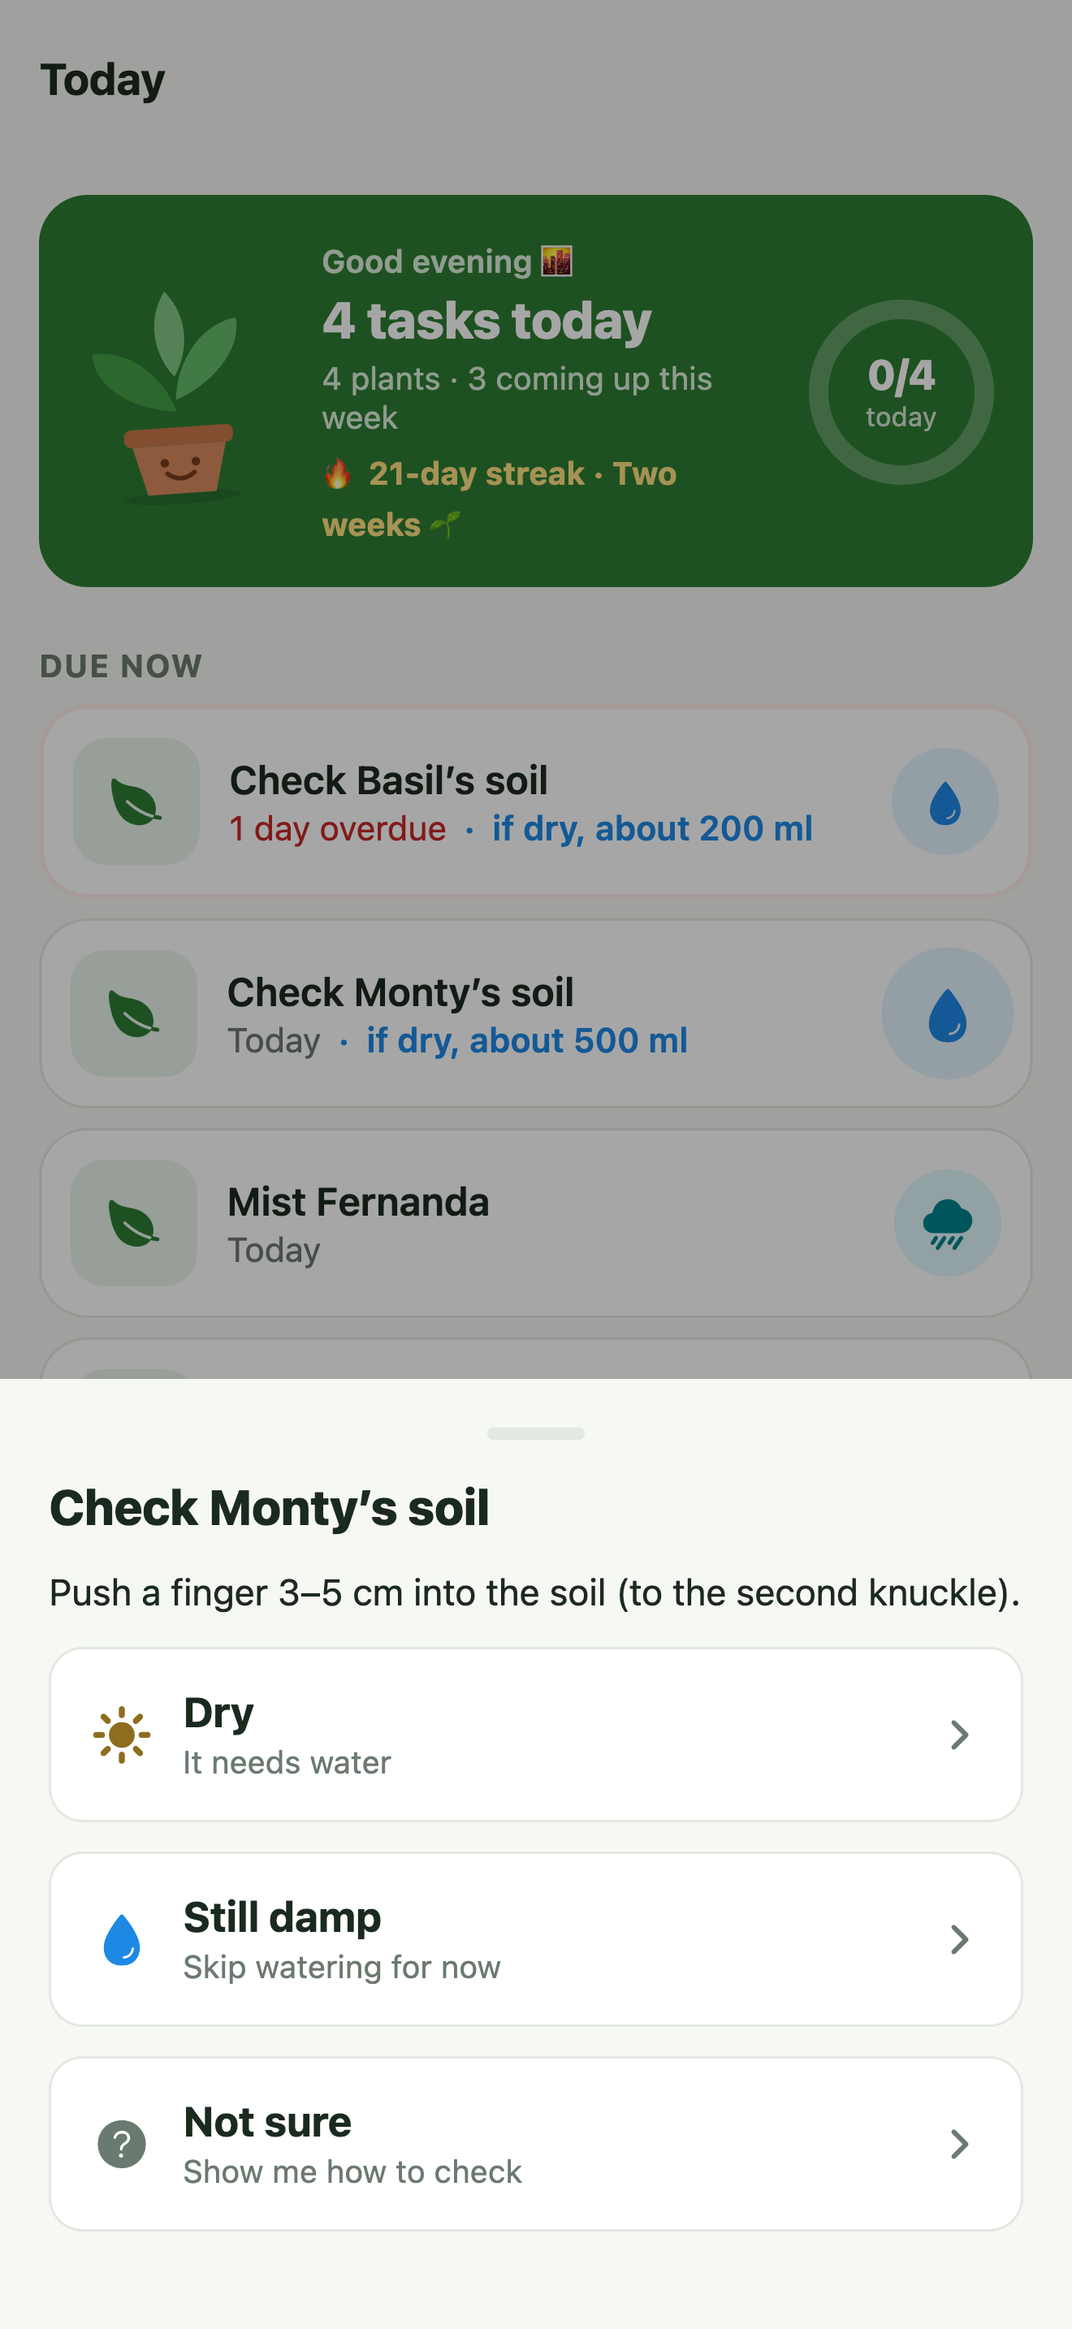
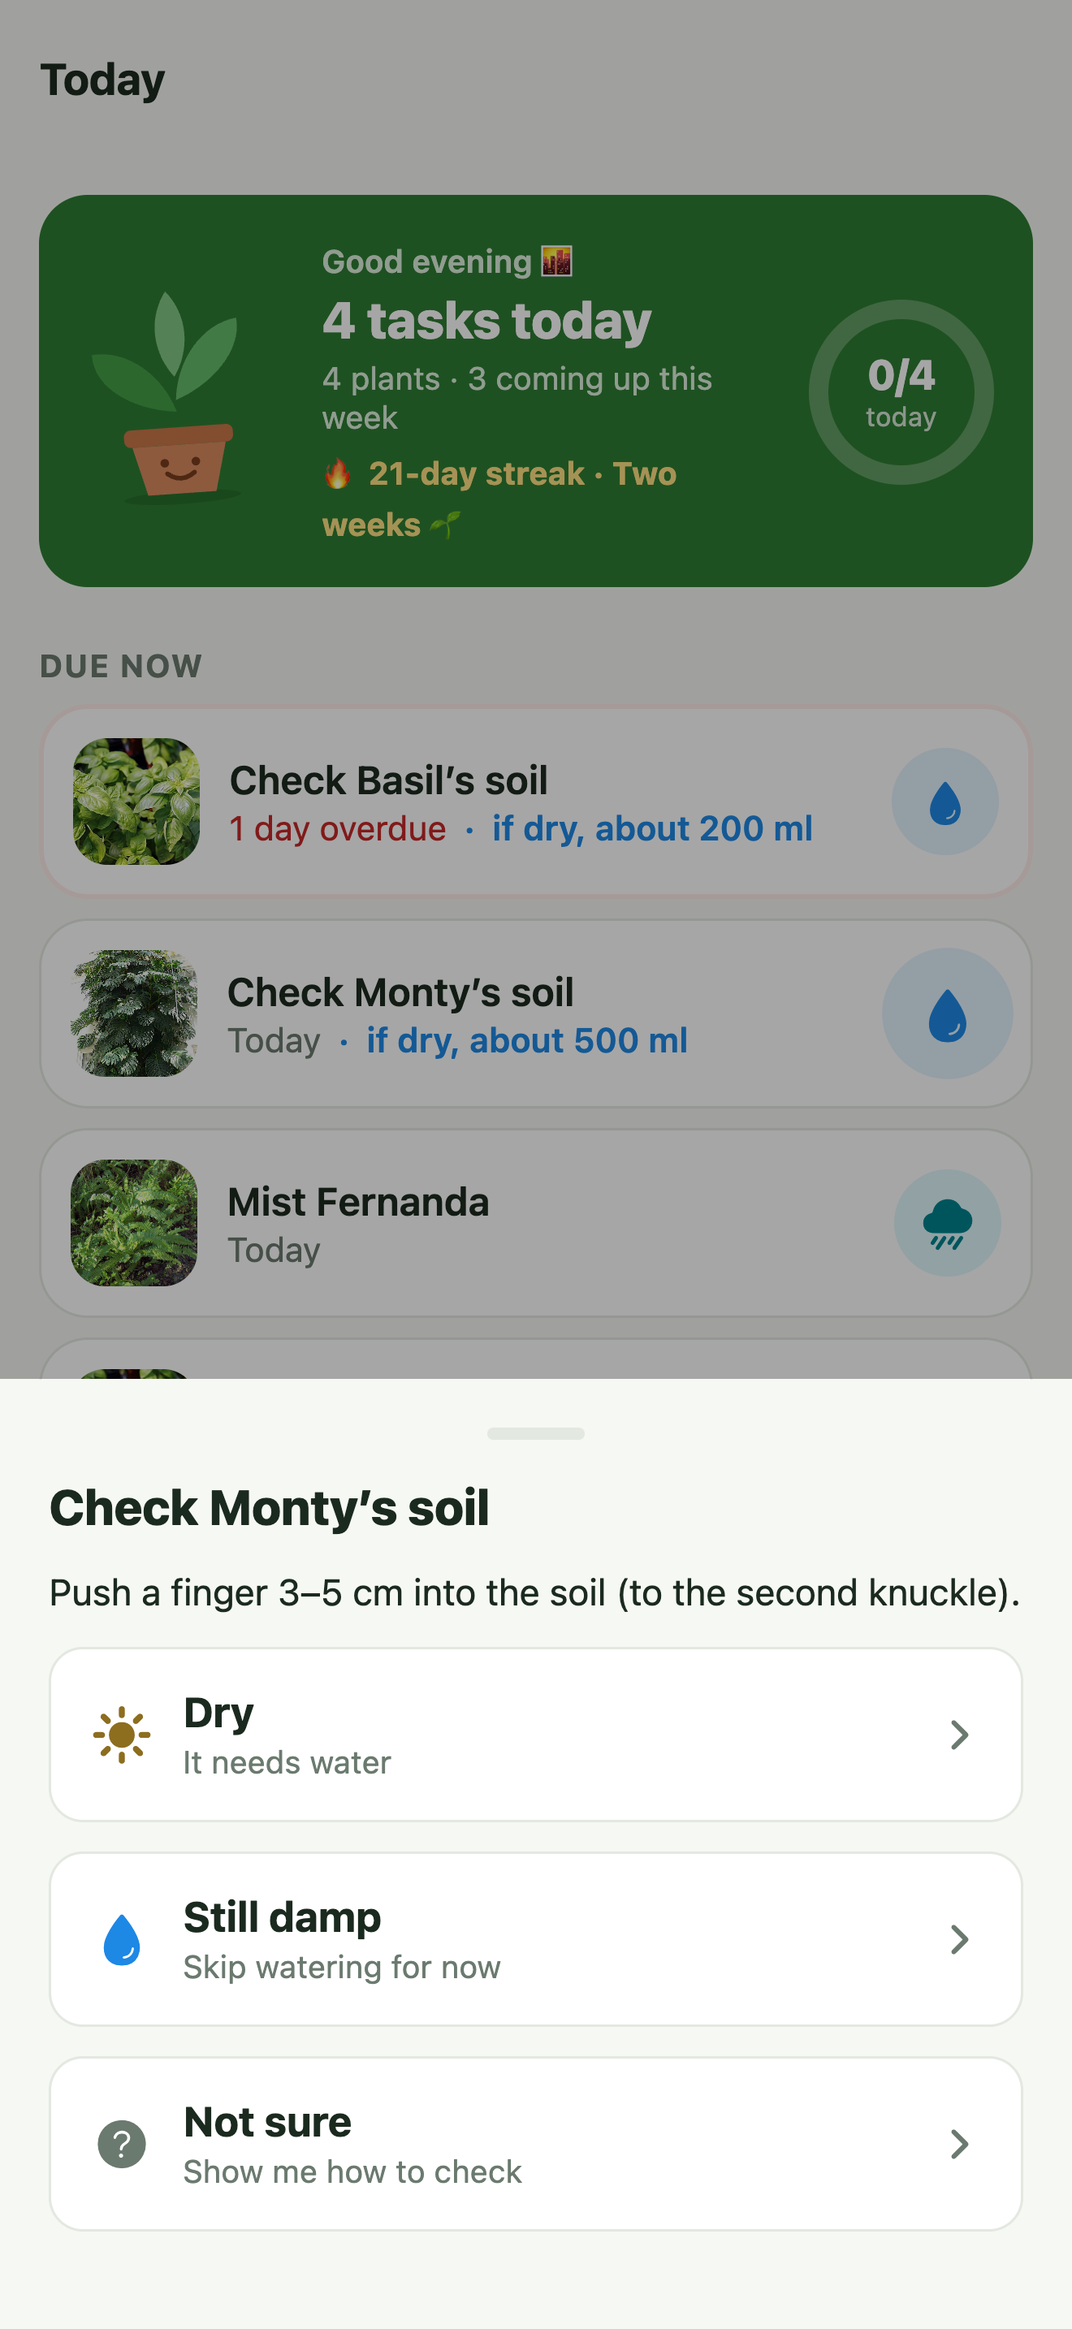
Show plant photos: your own, else Pl@ntNet or Wikipedia reference photo
Identification results now include Pl@ntNet's photo of each matched species,
saved as the plant's reference photo. Plants added by name look one up on
Wikipedia. Your own photo always wins; offline or missing photos fall back to the leaf.

Changed region(s): [[0.0621, 0.4965, 0.1864, 0.5586], [0.0621, 0.4034, 0.1864, 0.4655], [0.0621, 0.3103, 0.1864, 0.3724]]

diff --git a/src/lib/plantnet.ts b/src/lib/plantnet.ts
@@ -1,6 +1,7 @@
 import { File } from 'expo-file-system';
 import { Platform } from 'react-native';
 import { proxyEnabled, proxyError, proxyFetch } from './proxy';
+import type { RefPhoto } from './types';
 
 /**
  * Pl@ntNet identification API. Free tier: 500 identifications/day for
@@ -17,6 +18,8 @@ export type IdentifyMatch = {
   genus: string;
   family: string;
   gbifId?: string;
+  /** A reference photo of this species from Pl@ntNet, to compare with the user's plant. */
+  refPhoto?: RefPhoto;
 };
 
 export type IdentifyResult = {
@@ -34,6 +37,7 @@ type ApiResponse = {
       family?: { scientificNameWithoutAuthor: string };
     };
     gbif?: { id?: string };
+    images?: { url?: { s?: string; m?: string }; citation?: string; author?: string }[];
   }[];
   remainingIdentificationRequests?: number;
   message?: string;
@@ -66,7 +70,8 @@ async function send(route: 'identify' | 'diseases', form: FormData, apiKey: stri
   let res: Response;
   if (apiKey) {
     const path = route === 'identify' ? 'identify/all' : 'diseases/identify';
-    res = await fetch(`${API}/${path}?api-key=${encodeURIComponent(apiKey)}&nb-results=5&lang=en&include-related-images=false`, { method: 'POST', body: form });
+    const images = route === 'identify'; // reference photos per match; diseases don't need them
+    res = await fetch(`${API}/${path}?api-key=${encodeURIComponent(apiKey)}&nb-results=5&lang=en&include-related-images=${images}`, { method: 'POST', body: form });
   } else if (proxyEnabled) {
     res = await proxyFetch(`/v1/plantnet/${route}`, { method: 'POST', body: form });
   } else {
@@ -90,6 +95,12 @@ function throwForStatus(status: number, message?: string): never {
   throw new Error(message ?? `Request failed (HTTP ${status}).`);
 }
 
+function refPhoto(img: NonNullable<NonNullable<ApiResponse['results']>[number]['images']>[number] | undefined): RefPhoto | undefined {
+  const url = img?.url?.m ?? img?.url?.s;
+  if (!url) return undefined;
+  return { url, credit: img?.citation ?? (img?.author ? `${img.author} / Pl@ntNet` : 'Pl@ntNet') };
+}
+
 export async function identifyPlant(imageUri: string, apiKey: string, organ: Organ = 'auto'): Promise<IdentifyResult> {
   const res = await send('identify', await photoForm([{ uri: imageUri, organ }]), apiKey);
   const json = res.json as ApiResponse;
@@ -106,6 +117,7 @@ export async function identifyPlant(imageUri: string, apiKey: string, organ: Org
       genus: r.species.genus?.scientificNameWithoutAuthor ?? r.species.scientificNameWithoutAuthor.split(' ')[0],
       family: r.species.family?.scientificNameWithoutAuthor ?? '',
       gbifId: r.gbif?.id,
+      refPhoto: refPhoto(r.images?.[0]),
     })),
   };
 }

diff --git a/src/app/plant/[id].tsx b/src/app/plant/[id].tsx
@@ -1,7 +1,7 @@
 import { Ionicons } from '@expo/vector-icons';
 import { router, Stack, useLocalSearchParams } from 'expo-router';
 import { useState, type ComponentProps } from 'react';
-import { Alert, Image, Platform, ScrollView, StyleSheet, Text, View } from 'react-native';
+import { Alert, Image, Linking, Platform, ScrollView, StyleSheet, Text, View } from 'react-native';
 import { PotSetup, WaterIntervalHints } from '@/components/potSetup';
 import { ExtraCareCard } from '@/components/extraCare';
 import { CareActivityCard } from '@/components/careActivityCard';
@@ -88,7 +88,18 @@ export default function PlantDetail() {
       <Stack.Screen options={{ title: plant.nickname }} />
       {checking && <SoilCheckSheet plant={plant} ctx={ctx} onClose={() => setChecking(false)} />}
       <ScrollView contentContainerStyle={styles.container}>
-        {plant.photoUri ? <Image source={{ uri: plant.photoUri }} style={styles.hero} /> : <PlantPhoto size={120} style={{ alignSelf: 'center' }} />}
+        {plant.photoUri ? (
+          <Image source={{ uri: plant.photoUri }} style={styles.hero} />
+        ) : plant.refPhoto ? (
+          <View>
+            <PlantPhoto uri={plant.refPhoto.url} style={styles.hero} />
+            <Text style={styles.credit} onPress={plant.refPhoto.link ? () => Linking.openURL(plant.refPhoto!.link!) : undefined}>
+              Reference photo: {plant.refPhoto.credit}. Add your own in Growth timeline.
+            </Text>
+          </View>
+        ) : (
+          <PlantPhoto size={120} style={{ alignSelf: 'center' }} />
+        )}
         <Text style={styles.name}>{plant.nickname}</Text>
         {(plant.commonName || plant.species) && (
           <Text style={styles.species}>
@@ -222,6 +233,7 @@ export default function PlantDetail() {
 const styles = StyleSheet.create({
   container: { padding: space(4), paddingBottom: space(12) },
   hero: { width: '100%', aspectRatio: 4 / 3, borderRadius: radius.lg },
+  credit: { fontSize: 11, color: colors.muted, marginTop: space(1) },
   name: { fontSize: 26, fontWeight: '800', color: colors.text, marginTop: space(4) },
   species: { fontSize: 15, color: colors.muted, marginTop: 2 },
   location: { fontSize: 14, color: colors.muted, marginTop: space(1) },

diff --git a/src/lib/refPhoto.ts b/src/lib/refPhoto.ts
@@ -1,0 +1,42 @@
+import { Platform } from 'react-native';
+import type { Plant, RefPhoto } from './types';
+
+/** The picture to show for a plant: the user's own photo, else a reference photo of the species. */
+export function plantCover(p: Pick<Plant, 'photoUri' | 'refPhoto'>): string | undefined {
+  return p.photoUri ?? p.refPhoto?.url ?? undefined;
+}
+
+type Summary = { type?: string; title?: string; thumbnail?: { source: string }; originalimage?: { width: number }; content_urls?: { mobile?: { page?: string } } };
+
+/** Wikimedia only serves standard thumbnail widths; 500px is sharp enough for tiles and the plant page. */
+function sharper(thumb: string, originalWidth = 0): string {
+  const clean = thumb.split('?')[0];
+  return originalWidth >= 500 ? clean.replace(/\/\d+px-([^/]+)$/, '/500px-$1') : clean;
+}
+
+/**
+ * Stock reference photo from Wikipedia, tried by scientific name then common name.
+ * Returns null when no article has a photo, undefined when offline (so it's tried again later).
+ */
+export async function findRefPhoto(names: (string | undefined)[]): Promise<RefPhoto | null | undefined> {
+  const tried = new Set<string>();
+  for (const name of names) {
+    const title = name?.trim();
+    if (!title || tried.has(title.toLowerCase())) continue;
+    tried.add(title.toLowerCase());
+    let res: Response;
+    try {
+      res = await fetch(`https://en.wikipedia.org/api/rest_v1/page/summary/${encodeURIComponent(title.replace(/ /g, '_'))}`, {
+        // Wikimedia asks apps to identify themselves; browsers send their own user agent.
+        headers: Platform.OS === 'web' ? {} : { 'Api-User-Agent': 'HappyLeafy/1.0 (https://happyleafy.com; info@happyleafy.com)' },
+      });
+    } catch {
+      return undefined;
+    }
+    if (!res.ok) continue;
+    const j = (await res.json().catch(() => ({}))) as Summary;
+    if (j.type === 'disambiguation' || !j.thumbnail?.source) continue;
+    return { url: sharper(j.thumbnail.source, j.originalimage?.width), credit: 'Wikipedia', link: j.content_urls?.mobile?.page };
+  }
+  return null;
+}

diff --git a/src/lib/demo.ts b/src/lib/demo.ts
@@ -41,6 +41,7 @@ export function demoPlants(): Plant[] {
       id: 'demo-monty',
       nickname: 'Monty',
       species: 'Monstera deliciosa',
+      refPhoto: { url: 'https://upload.wikimedia.org/wikipedia/commons/thumb/2/2e/Monstera_deliciosa2.jpg/500px-Monstera_deliciosa2.jpg', credit: 'Wikipedia' },
       commonName: 'Swiss cheese plant',
       location: 'Living room',
       createdAt: daysAgo(60),
@@ -67,6 +68,7 @@ export function demoPlants(): Plant[] {
       id: 'demo-fern',
       nickname: 'Fernanda',
       species: 'Nephrolepis exaltata',
+      refPhoto: { url: 'https://upload.wikimedia.org/wikipedia/commons/thumb/3/30/Boston_Fern_%282873392811%29.png/500px-Boston_Fern_%282873392811%29.png', credit: 'Wikipedia' },
       commonName: 'Boston fern',
       location: 'Bathroom',
       createdAt: daysAgo(40),
@@ -82,6 +84,7 @@ export function demoPlants(): Plant[] {
       id: 'demo-spike',
       nickname: 'Spike',
       species: 'Sansevieria trifasciata',
+      refPhoto: { url: 'https://upload.wikimedia.org/wikipedia/commons/thumb/f/fb/Snake_Plant_%28Sansevieria_trifasciata_%27Laurentii%27%29.jpg/500px-Snake_Plant_%28Sansevieria_trifasciata_%27Laurentii%27%29.jpg', credit: 'Wikipedia' },
       commonName: 'Snake plant',
       location: 'Bedroom',
       createdAt: daysAgo(90),
@@ -97,6 +100,7 @@ export function demoPlants(): Plant[] {
       id: 'demo-basil',
       nickname: 'Basil',
       species: 'Ocimum basilicum',
+      refPhoto: { url: 'https://upload.wikimedia.org/wikipedia/commons/thumb/9/97/Ocimum_basilicum_8zz.jpg/500px-Ocimum_basilicum_8zz.jpg', credit: 'Wikipedia' },
       commonName: 'Sweet basil',
       location: 'Kitchen',
       createdAt: daysAgo(25),

diff --git a/src/components/ui.tsx b/src/components/ui.tsx
@@ -1,5 +1,5 @@
 import { Ionicons } from '@expo/vector-icons';
-import type { ComponentProps, ReactNode } from 'react';
+import { useState, type ComponentProps, type ReactNode } from 'react';
 import { ActivityIndicator, Image, Pressable, StyleSheet, Text, View, type StyleProp, type ViewStyle } from 'react-native';
 import { colors, radius, space } from '@/lib/theme';
 
@@ -47,11 +47,14 @@ const VARIANTS = {
   feed: { bg: colors.feedSoft, fg: colors.feed },
 };
 
-export function PlantPhoto({ uri, size, style }: { uri?: string; size: number; style?: StyleProp<ViewStyle> }) {
-  if (uri) return <Image source={{ uri }} style={[{ width: size, height: size, borderRadius: radius.md }, style as object]} />;
+/** Plant picture, or a leaf when there is none or it can't load (e.g. a reference photo while offline). Omit size to size it by style. */
+export function PlantPhoto({ uri, size, style }: { uri?: string; size?: number; style?: StyleProp<ViewStyle> }) {
+  const [failed, setFailed] = useState<string>();
+  const box = size === undefined ? { borderRadius: radius.md } : { width: size, height: size, borderRadius: radius.md };
+  if (uri && failed !== uri) return <Image source={{ uri }} onError={() => setFailed(uri)} style={[box, style as object]} />;
   return (
-    <View style={[{ width: size, height: size, borderRadius: radius.md }, styles.placeholder, style]}>
-      <Ionicons name="leaf" size={size * 0.45} color={colors.primary} />
+    <View style={[box, styles.placeholder, style]}>
+      <Ionicons name="leaf" size={(size ?? 110) * 0.45} color={colors.primary} />
     </View>
   );
 }

diff --git a/src/app/(tabs)/identify.tsx b/src/app/(tabs)/identify.tsx
@@ -1,7 +1,7 @@
 import { router } from 'expo-router';
 import { useState } from 'react';
 import { Image, Linking, Pressable, ScrollView, StyleSheet, Text, View } from 'react-native';
-import { Button, Card, Chip, SectionTitle } from '@/components/ui';
+import { Button, Card, Chip, PlantPhoto, SectionTitle } from '@/components/ui';
 import { findCareProfile } from '@/lib/careDb';
 import { pickPhoto } from '@/lib/photos';
 import { useConsent } from '@/lib/consent';
@@ -55,7 +55,14 @@ export default function IdentifyScreen() {
   const addMatch = (m: IdentifyMatch) => {
     router.push({
       pathname: '/add',
-      params: { scientificName: m.scientificName, commonName: m.commonNames[0] ?? '', family: m.family, photoUri: photo ?? '' },
+      params: {
+        scientificName: m.scientificName,
+        commonName: m.commonNames[0] ?? '',
+        family: m.family,
+        photoUri: photo ?? '',
+        refPhotoUrl: m.refPhoto?.url ?? '',
+        refPhotoCredit: m.refPhoto?.credit ?? '',
+      },
     });
   };
 
@@ -102,6 +109,7 @@ export default function IdentifyScreen() {
             const care = findCareProfile(m.scientificName, m.family);
             return (
               <Card key={m.scientificName} style={styles.match}>
+                {m.refPhoto && <PlantPhoto uri={m.refPhoto.url} size={64} />}
                 <View style={{ flex: 1 }}>
                   <Text style={styles.matchName}>{m.commonNames[0] ?? care?.commonName ?? m.scientificName}</Text>
                   <Text style={styles.matchSci}>{m.scientificName}</Text>

diff --git a/src/lib/store.tsx b/src/lib/store.tsx
@@ -2,6 +2,7 @@ import AsyncStorage from '@react-native-async-storage/async-storage';
 import { Alert, Platform } from 'react-native';
 import { createContext, useCallback, useContext, useEffect, useMemo, useRef, useState, type ReactNode } from 'react';
 import { combinePlants, photoUris, type BackupSettings } from './backupFormat';
+import { findRefPhoto } from './refPhoto';
 import { demoPlants, isDemo } from './demo';
 import { deletePhoto } from './photos';
 import { cancelPlantReminders, scheduleDailySummaries, schedulePlantReminders } from './reminders';
@@ -205,6 +206,19 @@ export function PlantStoreProvider({ children }: { children: ReactNode }) {
     },
     [savePlants, withReminders],
   );
+
+  // Plants without the user's own photo get a Wikipedia reference photo of their species, once.
+  const lookingUp = useRef(new Set<string>());
+  useEffect(() => {
+    if (!ready) return;
+    for (const p of plants) {
+      if (p.photoUri || p.refPhoto !== undefined || !(p.species || p.commonName) || lookingUp.current.has(p.id)) continue;
+      lookingUp.current.add(p.id);
+      findRefPhoto([p.species, p.commonName, p.aiCare?.commonName])
+        .then((refPhoto) => (refPhoto === undefined ? undefined : updatePlant(p.id, { refPhoto })))
+        .finally(() => lookingUp.current.delete(p.id));
+    }
+  }, [ready, plants, updatePlant]);
 
   // Outdoor plants: fetch rain for the user's place and log soaking rain as a watering.
   const weather = settings.weather;

diff --git a/src/app/(tabs)/index.tsx b/src/app/(tabs)/index.tsx
@@ -18,6 +18,7 @@ import { gardenStreak, streakMilestone } from '@/lib/careActivity';
 import { dueLabel, startOfDay, upcomingTasks, type Task } from '@/lib/schedule';
 import { usePlants } from '@/lib/store';
 import { colors, radius, space } from '@/lib/theme';
+import { plantCover } from '@/lib/refPhoto';
 import type { Plant } from '@/lib/types';
 import { TASK_META } from '@/lib/taskMeta';
 import { formatMl, waterAmount } from '@/lib/waterAmount';
@@ -174,7 +175,7 @@ function TaskRow({ task, onDone, rainMm, index }: { task: Task; onDone: () => vo
     <Animated.View entering={FadeInDown.delay(Math.min(index, 8) * 70).springify().damping(16)} exiting={FadeOutRight.duration(300)} layout={LinearTransition.springify().damping(18)}>
       <Pressable onPress={() => router.push(`/plant/${task.plant.id}`)}>
         <Card style={[styles.task, overdue && styles.taskOverdue]}>
-          <PlantPhoto uri={task.plant.photoUri} size={52} />
+          <PlantPhoto uri={plantCover(task.plant)} size={52} />
           <View style={{ flex: 1 }}>
             <Text style={styles.taskTitle}>
               {task.kind === 'water' ? `Check ${task.plant.nickname}’s soil` : `${meta.verb} ${task.plant.nickname}`}

diff --git a/src/app/add.tsx b/src/app/add.tsx
@@ -22,7 +22,7 @@ const LAST_WATERED = [
 ];
 
 export default function AddPlantScreen() {
-  const params = useLocalSearchParams<{ scientificName?: string; commonName?: string; family?: string; photoUri?: string }>();
+  const params = useLocalSearchParams<{ scientificName?: string; commonName?: string; family?: string; photoUri?: string; refPhotoUrl?: string; refPhotoCredit?: string }>();
   const { addPlant, settings } = usePlants();
   const identified = !!params.scientificName;
   const initialProfile = findCareProfile(params.scientificName, params.family);
@@ -98,6 +98,8 @@ export default function AddPlantScreen() {
         aiCare,
         commonName: commonName || undefined,
         photoUri: saved,
+        // Pl@ntNet's photo of the matched species; plants added by name get a Wikipedia one from the store.
+        refPhoto: params.refPhotoUrl && species === params.scientificName ? { url: params.refPhotoUrl, credit: params.refPhotoCredit || 'Pl@ntNet' } : undefined,
         timeline: saved ? [{ id: newId(), uri: saved, at: new Date().toISOString() }] : undefined,
         location: location.trim() || undefined,
         waterEveryDays: waterEvery,

diff --git a/src/app/(tabs)/plants.tsx b/src/app/(tabs)/plants.tsx
@@ -9,6 +9,7 @@ import { roomsOf } from '@/lib/plantContext';
 import { daysUntil, nextWaterDate } from '@/lib/schedule';
 import { usePlants } from '@/lib/store';
 import { colors, radius, space } from '@/lib/theme';
+import { plantCover } from '@/lib/refPhoto';
 import type { Plant } from '@/lib/types';
 
 type Sort = 'water' | 'name' | 'newest';
@@ -105,7 +106,7 @@ export default function PlantsScreen() {
         return (
           <Pressable style={{ flex: 1, maxWidth: '50%' }} onPress={() => router.push(`/plant/${item.id}`)}>
             <Card style={styles.tile}>
-              <PlantPhoto uri={item.photoUri} size={140} style={{ width: '100%' }} />
+              <PlantPhoto uri={plantCover(item)} size={140} style={{ width: '100%' }} />
               <Text style={styles.name} numberOfLines={1}>
                 {item.nickname}
               </Text>

diff --git a/server/src/index.ts b/server/src/index.ts
@@ -103,7 +103,7 @@ export default {
       if (!env.PLANTNET_KEY) return fail(503, 'not_configured', 'Plant identification is not set up on the server.');
       kind = url.pathname.endsWith('identify') ? 'identify' : 'diagnose';
       const path = kind === 'identify' ? 'identify/all' : 'diseases/identify';
-      target = `${PLANTNET}/${path}?api-key=${encodeURIComponent(env.PLANTNET_KEY)}&nb-results=5&lang=en&include-related-images=false`;
+      target = `${PLANTNET}/${path}?api-key=${encodeURIComponent(env.PLANTNET_KEY)}&nb-results=5&lang=en&include-related-images=${kind === 'identify'}`;
       headers = { 'Content-Type': request.headers.get('Content-Type') ?? '' };
       if (!headers['Content-Type'].startsWith('multipart/form-data')) return fail(400, 'format', 'Expected photos.');
     } else if (gemini && MODEL.test(gemini[1])) {

diff --git a/src/lib/types.ts b/src/lib/types.ts
@@ -34,6 +34,9 @@ export type CareEvent = {
 
 export type SavedAdvice = { id: string; at: string; source: 'chat' | 'diagnosis'; question: string; answer: string };
 
+/** A stock photo of the species, shown until the user adds their own. */
+export type RefPhoto = { url: string; credit: string; link?: string };
+
 export type Plant = {
   id: string;
   nickname: string;
@@ -43,6 +46,8 @@ export type Plant = {
   aiCare?: CareProfile;
   commonName?: string;
   photoUri?: string;
+  /** Reference photo from identification or Wikipedia. null = looked, none found. */
+  refPhoto?: RefPhoto | null;
   location?: string;
   createdAt: string;
   waterEveryDays: number;
